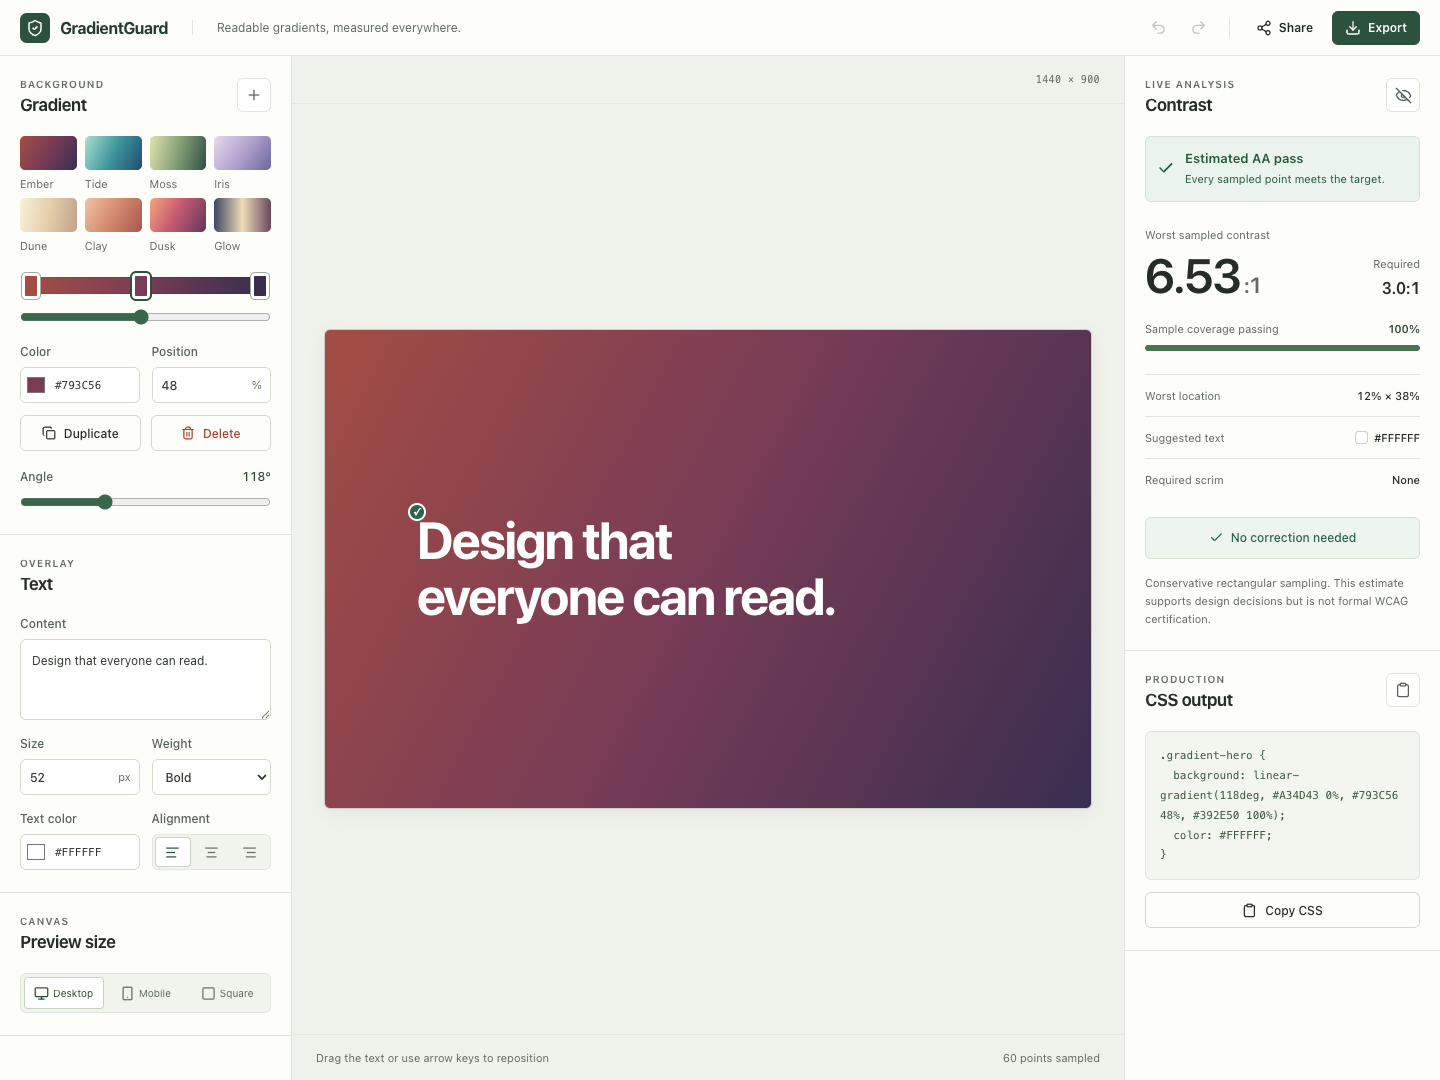
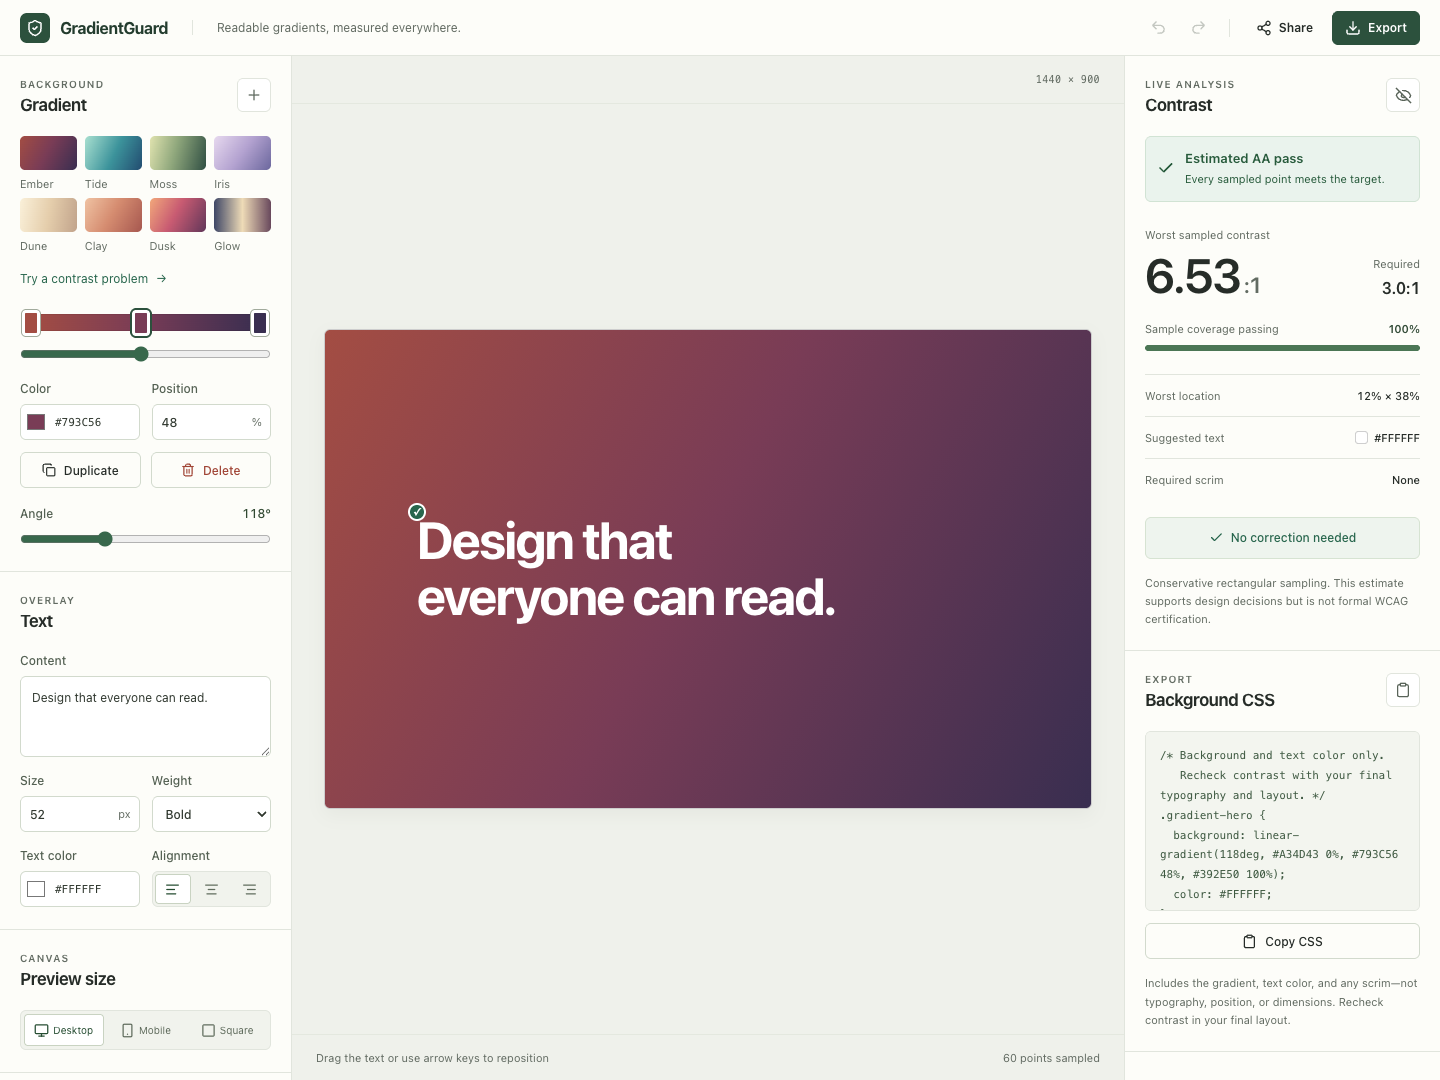
Refresh README screenshot with current arrival view

diff --git a/README.md b/README.md
@@ -10,7 +10,7 @@ GradientGuard samples the full rectangular region occupied by the preview text, 
 
 ## Screenshot
 
-![GradientGuard on first load: eight presets, the Ember gradient, and an estimated AA pass](./gradientguard-preview.png)
+![GradientGuard on first load: the Ember gradient passing contrast, eight presets, the Try a contrast problem action, and Background CSS export](./gradientguard-preview.png)
 
 The editor opens with **Ember**, a terracotta-to-plum gradient with readable white text. The screenshot reflects the current code on this branch; the live site follows releases merged into `main`.
 
